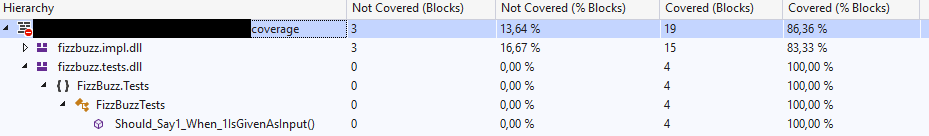
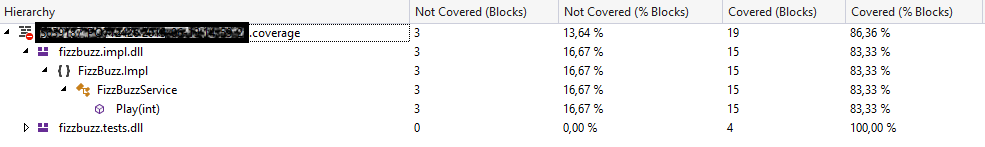
Update code coverage percetage

diff --git a/index.html b/index.html
@@ -156,9 +156,15 @@ public class FizzBuzzService
   string finalOutput = string.Empty;
   for (int i = 1; i <= upperBound; i++)
   {
-   string localOutput = i % 3 == 0 ? "Fizz" : string.Empty;
-   localOutput += i % 5 == 0 ? "Buzz" : string.Empty;
-   localOutput += localOutput == string.Empty ? i.ToString() : string.Empty;
+   string localOutput = i % 3 == 0 ?
+	"Fizz" :
+	string.Empty;
+   localOutput += i % 5 == 0 ?
+	"Buzz" :
+	string.Empty;
+   localOutput += localOutput == string.Empty ?
+	i.ToString() :
+	string.Empty;
    finalOutput += localOutput;
   }
   return finalOutput;
@@ -193,9 +199,15 @@ public string Play(int upperBound)
   string finalOutput = string.Empty;
   for (int i = 1; i <= upperBound; i++)
   {
-   string localOutput = i % 3 == 0 ? "Fizz" : string.Empty;
-   localOutput += i % 5 == 0 ? "Buzz" : string.Empty;
-   localOutput += localOutput == string.Empty ? i.ToString() : string.Empty;
+   string localOutput = i % 3 == 0 ?
+	"Fizz" :
+	string.Empty;
+   localOutput += i % 5 == 0 ?
+	"Buzz" :
+	string.Empty;
+   localOutput += localOutput == string.Empty ?
+	i.ToString() :
+	string.Empty;
    finalOutput += localOutput;
   }
   return finalOutput;
@@ -205,15 +217,21 @@ public string Play(int upperBound)
 					</section>
 					<section>
 						<pre>
-							<code class="hljs" data-trim data-line-numbers="3-5">
+							<code class="hljs" data-trim data-line-numbers="3-5,6,8">
 public string Play(int upperBound)
 {
   string finalOutput = string.Empty;
   for (int i = 1; i <= upperBound; i++)
   {
-   string localOutput = i % 3 == 0 ? "Fizz" : string.Empty;
-   localOutput += i % 5 == 0 ? "Buzz" : string.Empty;
-   localOutput += localOutput == string.Empty ? i.ToString() : string.Empty;
+   string localOutput = i % 3 == 0 ?
+	"Fizz" :
+	string.Empty;
+   localOutput += i % 5 == 0 ?
+	"Buzz" :
+	string.Empty;
+   localOutput += localOutput == string.Empty ?
+	i.ToString() :
+	string.Empty;
    finalOutput += localOutput;
   }
   return finalOutput;
@@ -223,15 +241,21 @@ public string Play(int upperBound)
 					</section>
 					<section>
 						<pre>
-							<code class="hljs" data-trim data-line-numbers="3-9">
+							<code class="hljs" data-trim data-line-numbers="3-5,6,8,9,11">
 public string Play(int upperBound)
 {
   string finalOutput = string.Empty;
   for (int i = 1; i <= upperBound; i++)
   {
-   string localOutput = i % 3 == 0 ? "Fizz" : string.Empty;
-   localOutput += i % 5 == 0 ? "Buzz" : string.Empty;
-   localOutput += localOutput == string.Empty ? i.ToString() : string.Empty;
+   string localOutput = i % 3 == 0 ?
+	"Fizz" :
+	string.Empty;
+   localOutput += i % 5 == 0 ?
+	"Buzz" :
+	string.Empty;
+   localOutput += localOutput == string.Empty ?
+	i.ToString() :
+	string.Empty;
    finalOutput += localOutput;
   }
   return finalOutput;
@@ -241,15 +265,45 @@ public string Play(int upperBound)
 					</section>
 					<section>
 						<pre>
-							<code class="hljs" data-trim data-line-numbers="3-5,13-16,6,8-11">
+							<code class="hljs" data-trim data-line-numbers="3-5,6,8,9,11,12-13">
 public string Play(int upperBound)
 {
   string finalOutput = string.Empty;
   for (int i = 1; i <= upperBound; i++)
   {
-   string localOutput = i % 3 == 0 ? "Fizz" : string.Empty;
-   localOutput += i % 5 == 0 ? "Buzz" : string.Empty;
-   localOutput += localOutput == string.Empty ? i.ToString() : string.Empty;
+   string localOutput = i % 3 == 0 ?
+	"Fizz" :
+	string.Empty;
+   localOutput += i % 5 == 0 ?
+	"Buzz" :
+	string.Empty;
+   localOutput += localOutput == string.Empty ?
+	i.ToString() :
+	string.Empty;
+   finalOutput += localOutput;
+  }
+  return finalOutput;
+}
+							</code>
+						</pre>
+					</section>
+					<section>
+						<pre>
+							<code class="hljs" data-trim data-line-numbers="3-5,6,8,9,11,12-13,15-17">
+public string Play(int upperBound)
+{
+  string finalOutput = string.Empty;
+  for (int i = 1; i <= upperBound; i++)
+  {
+   string localOutput = i % 3 == 0 ?
+	"Fizz" :
+	string.Empty;
+   localOutput += i % 5 == 0 ?
+	"Buzz" :
+	string.Empty;
+   localOutput += localOutput == string.Empty ?
+	i.ToString() :
+	string.Empty;
    finalOutput += localOutput;
   }
   return finalOutput;
@@ -259,7 +313,7 @@ public string Play(int upperBound)
 					</section>
 					<section>
 						<p>
-							Code coverage is <span style="color: green;">100%</span>
+							Code coverage is <span style="color: green;">83%</span>
 						</p>
 						<img src="./code coverage.png" />
 					</section>
@@ -327,9 +381,15 @@ public string Play(int upperBound)
   string finalOutput = string.Empty;
   for (int i = 1; i <= upperBound; i++)
   {
-   string localOutput = i % 3 == 0 ? "Fizz" : string.Empty;
-   localOutput += i % 5 == 0 ? "Buzz" : string.Empty;
-   localOutput += localOutput == string.Empty ? i.ToString() : string.Empty;
+   string localOutput = i % 3 == 0 ?
+	"Fizz" :
+	string.Empty;
+   localOutput += i % 5 == 0 ?
+	"Buzz" :
+	string.Empty;
+   localOutput += localOutput == string.Empty ?
+	i.ToString() :
+	string.Empty;
    finalOutput += localOutput;
   }
   return finalOutput;
@@ -355,7 +415,7 @@ public string Play(int upperBound)
 						</p>
 						<p>
 							<small>
-								When mutants survive, you can consider that you <strong>can't thrust your code coverage</strong>.
+								When mutants survive, you can consider that you <strong>can't trust your code coverage</strong>.
 							</small>
 						</p>
 					</section>
@@ -379,11 +439,8 @@ public string Play(int upperBound)
 								<ul>
 									<li>Clone <a href="https://github.com/jtourvieille/MutationTesting/tree/master">this repository</a>.</li>
 									<li>Open the solution.</li>
-									<li>Using Visual studio 2019, go to Tools->Options->Projects and Solutions->.NET Core and check that 'Use previews of the .NET Core SDK' is enabled.</li>
-									<li>Check that the project FizzBuzz.Impl targets the framework .NET Core 3.0.</li>
 									<li>Open a power shell at the solution level.</li>
-									<li>'dotnet new tool-manifest' This should add a .config directory containing a dotnet-tools.json file.</li>
-									<li>'dotnet tool install dotnet-stryker' This should install stryker application</li>
+									<li>'dotnet tool install -g dotnet-stryker' This should install stryker application</li>
 									<li>Move to the test folder.</li>
 									<li>'dotnet stryker'</li>
 								</ul>
